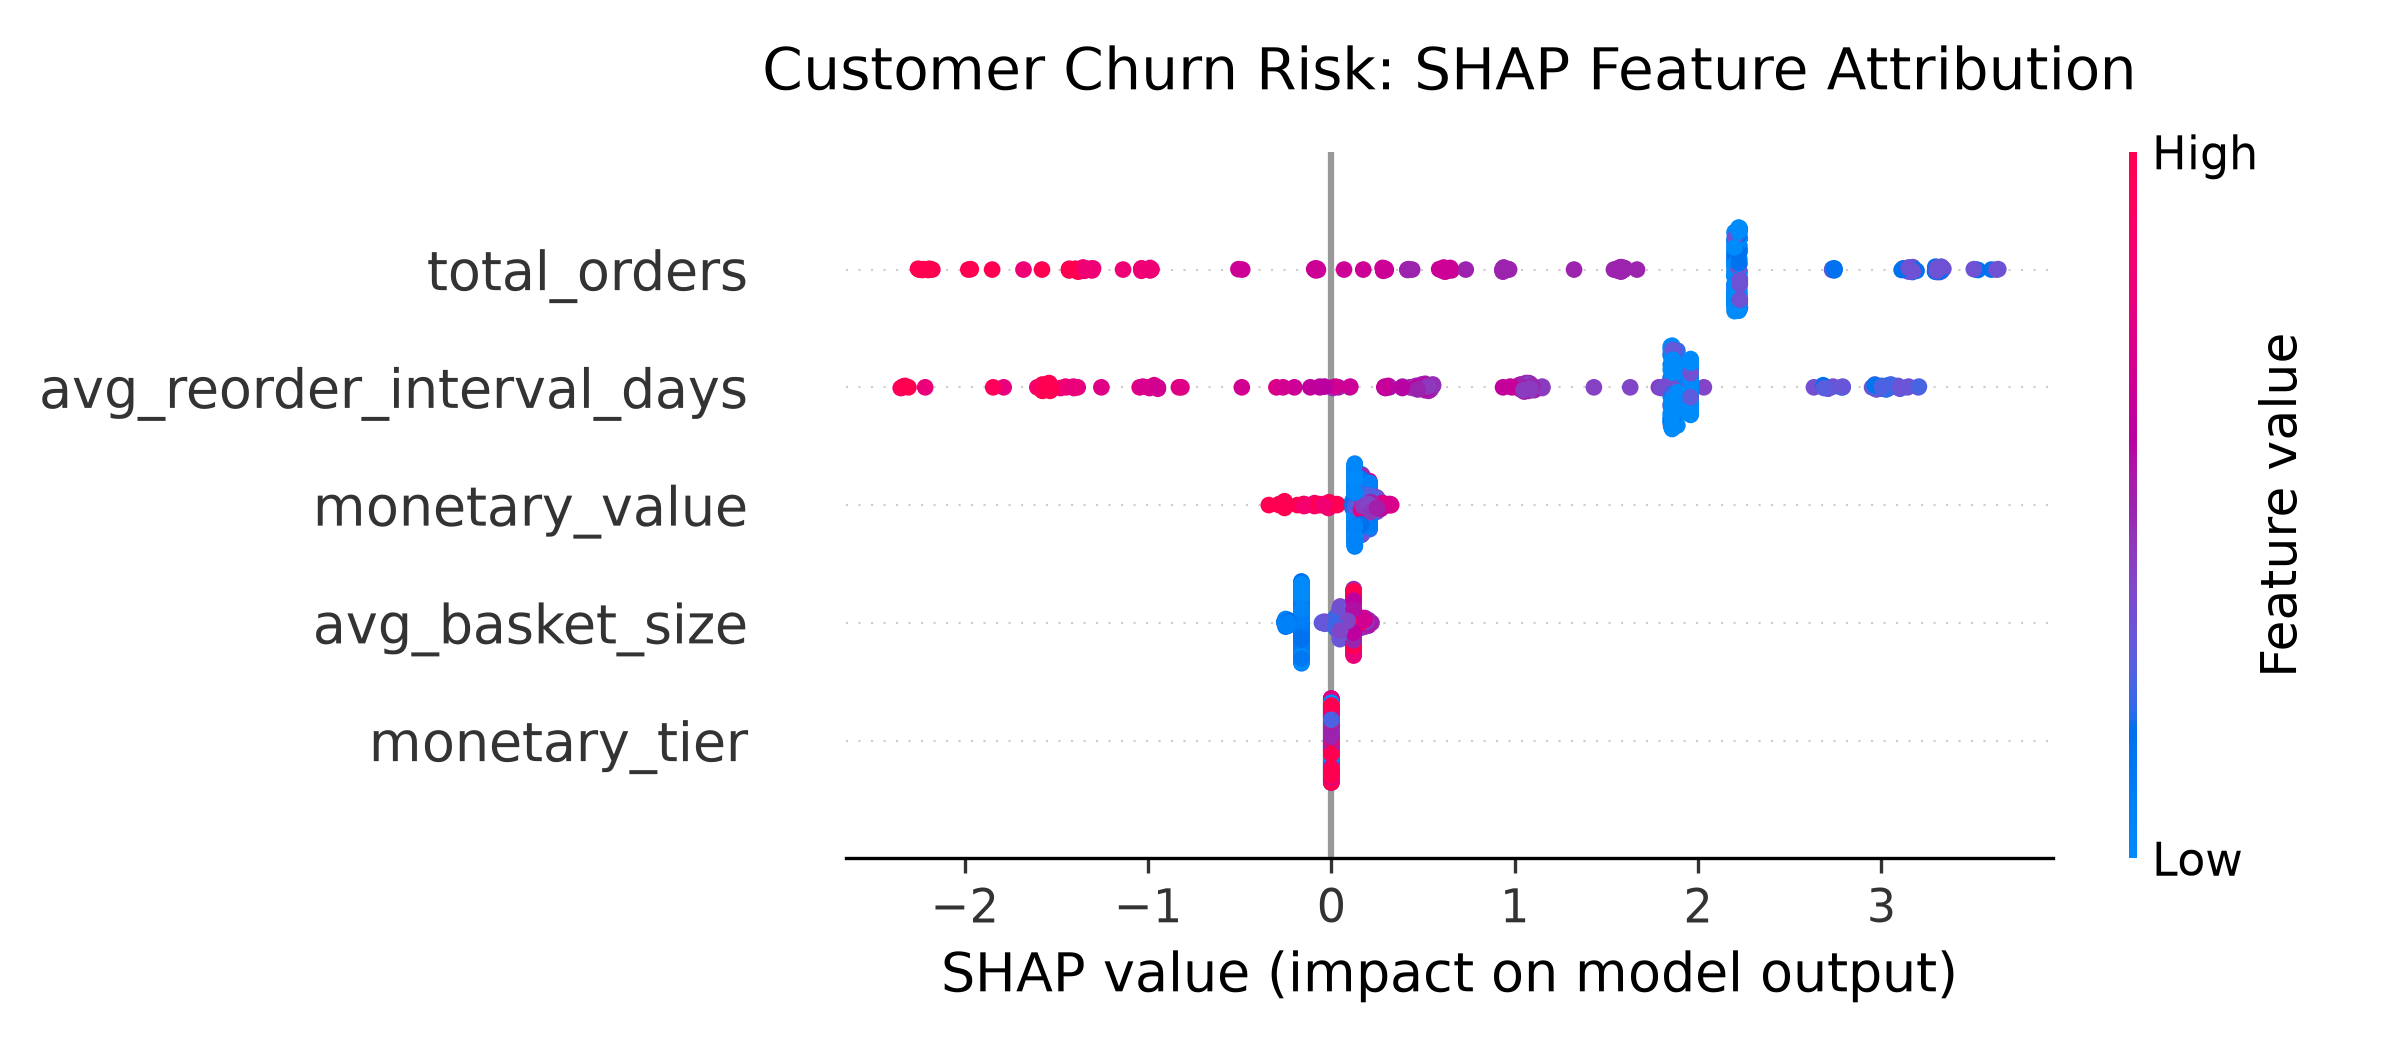
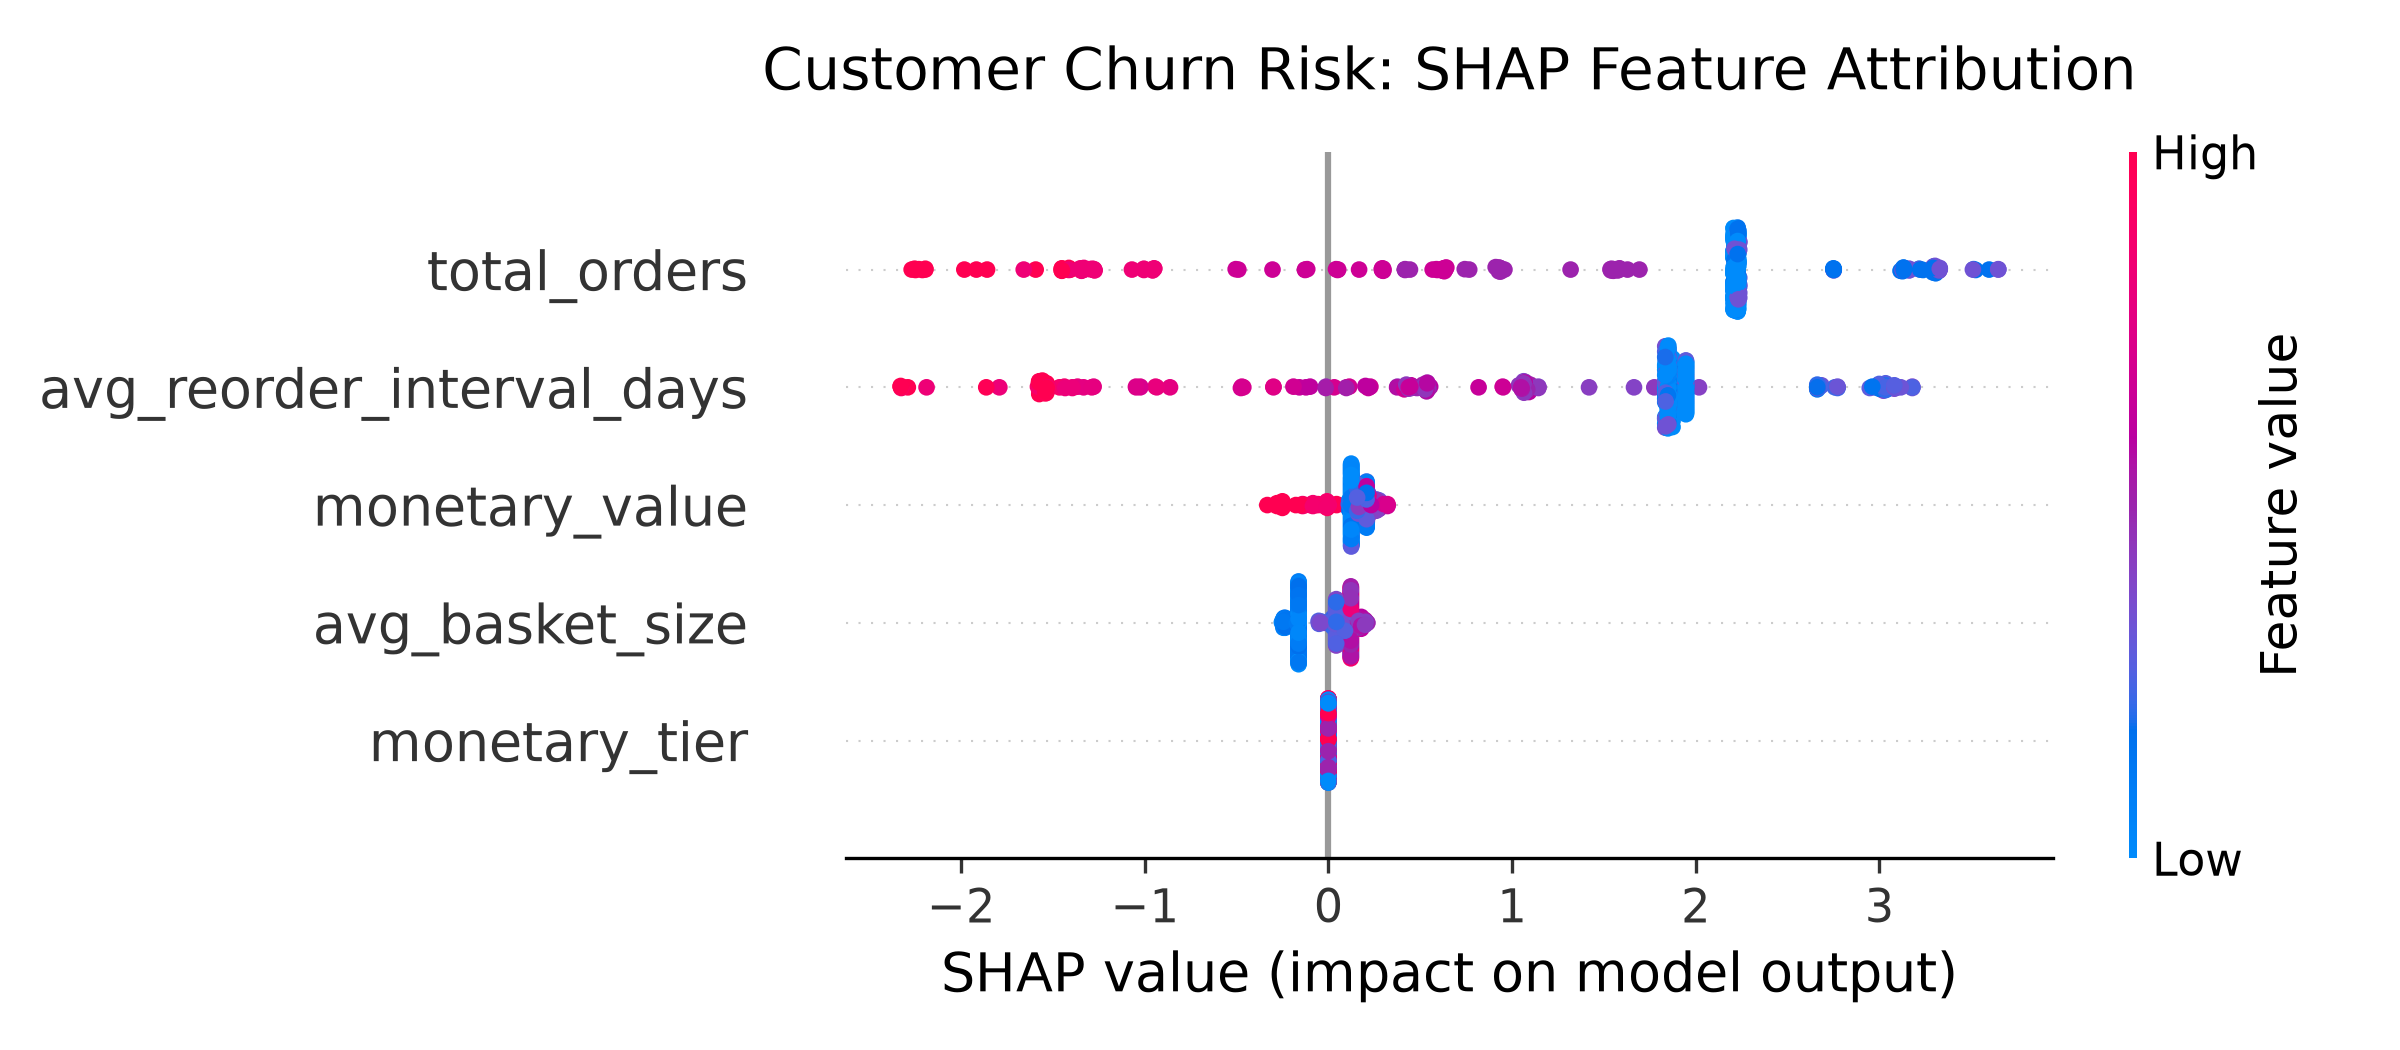
docs: finalize README with pipeline architecture and SHAP asset

diff --git a/README.md b/README.md
@@ -31,3 +31,18 @@ An end-to-end commercial data science pipeline coupling in-process analytical SQ
               │
               ▼
 [SHAP Attribution Engine] ─── Local & Global Explainability (`TreeExplainer`)
+🔬 Model Performance & Minority Class Handling
+The customer cohort exhibits significant natural churn imbalance (362 churners vs 13 retained accounts in the test partition). Standard models default to predicting the majority class to artificially inflate accuracy; applying cost-sensitive reweighting via scale_pos_weight recovers minority class sensitivity:
+
+Plaintext
+=== CLASSIFICATION REPORT (CLASS BALANCED) ===
+              precision    recall  f1-score   support
+
+           0       0.26      0.85      0.40        13
+           1       0.99      0.91      0.95       362
+
+    accuracy                           0.91       375
+   macro avg       0.63      0.88      0.68       375
+weighted avg       0.97      0.91      0.93       375
+
+ROC-AUC Score: 0.9644
